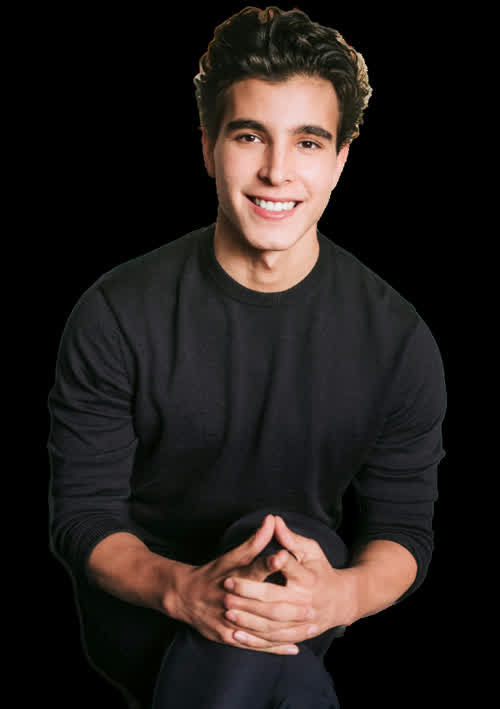
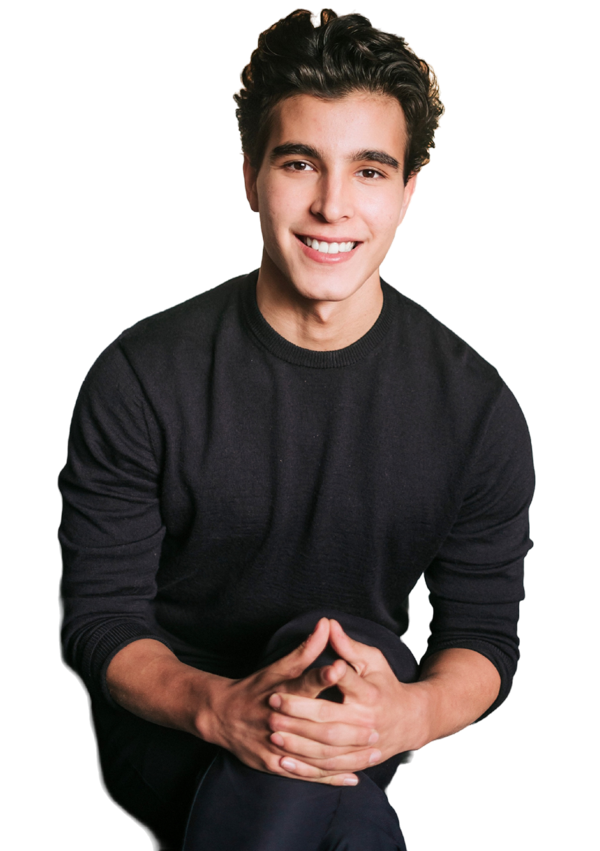
Fix portrait transparency, remove heavy preloads for faster initial load
- Restore Diseno-sin-titulo-97.png with RGBA transparency (was
  converted to JPG which killed alpha, showing black in Safari)
- Remove preloads for avatar GIF (888KB), contact card (633KB),
  and other below-fold images from index.html and JS
- Only preload signature GIF, portrait, and Organical font
- Everything else loads lazily as user scrolls

Made-with: Cursor

diff --git a/index.html b/index.html
@@ -12,15 +12,10 @@
 		<link rel="apple-touch-icon" href="/favicon-32.png" />
 		<link rel="shortcut icon" href="/favicon-32.png" />
 		
-		<!-- Preload critical font -->
+		<!-- Preload only first-screen assets -->
 		<link rel="preload" href="/ORGANICAL PERSONAL USE.ttf" as="font" type="font/ttf" crossorigin />
-		<!-- Preload critical images -->
 		<link rel="preload" href="/signature-intro.gif" as="image" fetchpriority="high" />
 		<link rel="preload" href="/Diseno-sin-titulo-97.png" as="image" fetchpriority="high" />
-		<link rel="preload" href="/logo_ph.png%20%282%29.gif" as="image" />
-		<link rel="preload" href="/image.png" as="image" />
-		<link rel="preload" href="/iniciativa-propone-enfoque-integral-educacion.png" as="image" />
-		<link rel="preload" href="/Gradient-Icon-Map-Navigation-App-Logo-500-x-150-px.png" as="image" />
 	</head>
 	<body>
 		<div id="root"></div>

diff --git a/src/App.tsx b/src/App.tsx
@@ -217,15 +217,7 @@ export default function App() {
 		if (showIntro) {
 			// Preload critical images in the background while signature animation plays
 			const imagesToPreload = [
-				'/Diseno-sin-titulo-97.png',
-				'/logo_ph.png%20%282%29.gif',
-				'/image.png',
-				'/iniciativa-propone-enfoque-integral-educacion.png',
-				'/Gradient-Icon-Map-Navigation-App-Logo-500-x-150-px.png',
-				'/tulane.svg',
-				'/lg-logo.png',
-				'/Tulane-University-Logo.png',
-				'/pena-morros-main-min.png'
+				'/Diseno-sin-titulo-97.png'
 			]
 			
 			imagesToPreload.forEach(src => {
